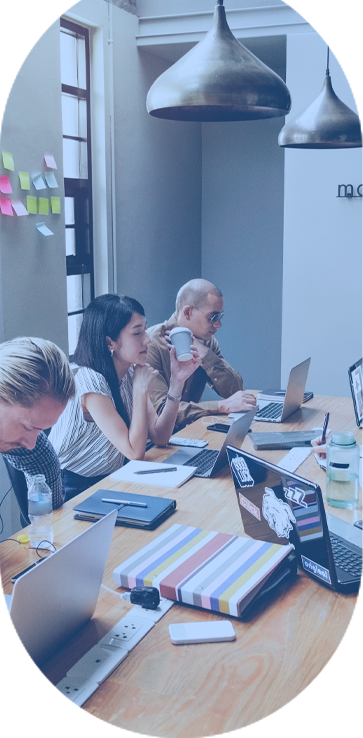
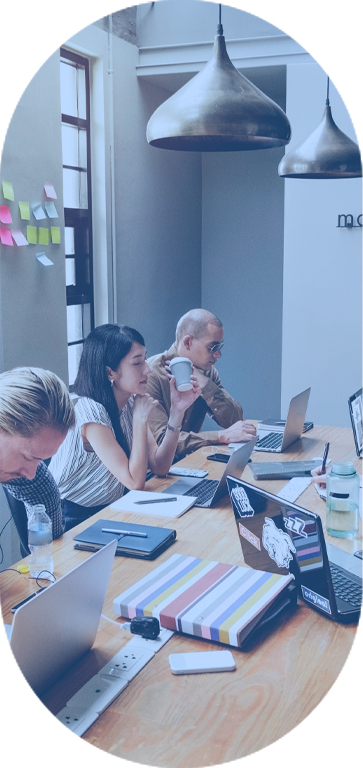
alterando design

diff --git a/index.html b/index.html
@@ -4,7 +4,7 @@
     <meta charset="UTF-8">
     <meta name="viewport" content="width=device-width, initial-scale=1.0">
     <link rel="stylesheet" href="./public/css/syle.css">
-    <link rel="stylesheet" href="./public/css/animationCircle.css">
+    <link rel="stylesheet" href="./public/css/animation.css">
     <link href="https://fonts.googleapis.com/css2?family=Roboto:wght@400;700&display=swap" rel="stylesheet">
    
     <title>Ad On</title>
@@ -19,9 +19,9 @@
 
             <nav class="menu-align">
                 <ul class="menu">
-                    <li><a>Home</a></li>
-                    <li><a>Sobre</a></li>
-                    <li><a>Contato</a></li>
+                    <li><a>HOME</a></li>
+                    <li><a>PORTIFOLIO</a></li>
+                    <li><a>CONTATO</a></li>
                 </ul>
             </nav>
         </header>
@@ -56,17 +56,22 @@
 
                 <div class="card">
                     <img src="./public/svg/Designer.svg" alt="">
-                    <h3 class="content-title-grey">Edição de <h2 class="content-title-blue"> Imagem</h2></h3>
+                    <h3 class="content-title-grey">Criação de <h2 class="content-title-blue">Artes</h2></h3>
+                    <p>Lorem ipsum dolor sit amet consectetur adipisicing elit. Voluptas nobis velit iusto itaque repudiandae deserunt exercitationem nam, odio harum blanditiis, eaque praesentium optio laudantium ducimus explicabo aspernatur alias. Nostrum, quos</p>
+
                 </div>
 
                 <div class="card">
                     <img src="./public/svg/videographer.svg" alt="">
-                    <h3 class="content-title-grey">Edição de <h2 class="content-title-blue"> Imagem</h2></h3>
+                    <h3 class="content-title-grey">Edição de <h2 class="content-title-blue">Vídeos</h2></h3>
+                    <p>Lorem ipsum dolor sit amet consectetur adipisicing elit. Voluptas nobis velit iusto itaque repudiandae deserunt exercitationem nam, odio harum blanditiis, eaque praesentium optio laudantium ducimus explicabo aspernatur alias. Nostrum, quos</p>
+
                 </div>
 
                 <div class="card">
                     <img src="./public/svg/data.svg" alt="">
-                    <h3 class="content-title-grey">Edição de <h2 class="content-title-blue"> Imagem</h2></h3>
+                    <h3 class="content-title-grey">Controle de <h2 class="content-title-blue">Marketing</h2></h3>
+                    <p>Lorem ipsum dolor sit amet consectetur adipisicing elit. Voluptas nobis velit iusto itaque repudiandae deserunt exercitationem nam, odio harum blanditiis, eaque praesentium optio laudantium ducimus explicabo aspernatur alias. Nostrum, quos</p>
                 </div>
                 
         </section>

diff --git a/public/css/syle.css b/public/css/syle.css
@@ -31,7 +31,7 @@ body, ul, li {
 header img {
   width: 06%;
   height: 06%;
-  padding: 0 8rem 0 8rem;
+  padding: 0 15rem 0 0;
 }
 
 header {
@@ -39,37 +39,20 @@ header {
   max-height: 80px;
   display: flex;
   align-items: center;
-  position: block;
+  justify-content: center;
 }
 
 .image-background
 {
   position: absolute;
-  top: 0%;
-  right: 5%;
+  top: 08%;
+  right: 6%;
   z-index: -1;
-  height: 100%;
+  height: 85%;
+  
 }
 
-*:not(.circle)
-{
-  filter: blur(0px);
 
-  animation: ease-in-out blurTransition 0.9s;
-}
-
-@keyframes blurTransition
-{
-  from
-  {
-    filter: blur(07px)
-  }
-
-  to
-  {
-    filter: blur(0px)
-  }
-}
 
 
 
@@ -157,13 +140,18 @@ header {
   flex-direction: column;
   justify-content: space-around;
   width: 100%;
-  min-height: 120vh;
+  min-height: 90vh;
 
 }
 .container .cards {
+  width: 90%;
   display: flex;
   justify-content: space-between;
   align-items: center;
+  margin: auto;
+  border-radius: 20px;
+  box-shadow: 1rem 1em 4rem rgba(0, 0, 0, .2);
+  padding: 2rem;
 }
 .container .cards .card {
   display: flex;
@@ -173,11 +161,26 @@ header {
   align-items: center;
 }
 
+.container .cards .card p
+{
+  text-align: justify;
+  text-indent: 08%;
+  line-height: 25px;
+}
+
 .container .cards .card img
 {
-  width: 70%;
-  min-height: 70%;
+  width: 250px;
+  height: 250px;
 }
+
+.content-title-blue
+{
+  color: var(--primary-color);
+  margin: 0;
+  padding: 0;
+}
+
 
 /* SVG's */
 .background-svg {

diff --git a/public/css/animation.css b/public/css/animation.css
@@ -1,9 +1,9 @@
 
-*:not(.circle)
+.image-background
 {
   filter: blur(0px);
 
-  animation: ease-in-out blurTransition 0.9s;
+  animation: ease-in-out blurTransition 0.7s;
 }
 
 @keyframes blurTransition
@@ -25,17 +25,17 @@
 
 
 .circle { 
-    width: 220px;
-    height: 220px; 
+    width: 250px;
+    height: 250px; 
     -moz-border-radius: 100%; 
     -webkit-border-radius: 100%; 
     border-radius: 100%;
     position: absolute;
     z-index: 2;
-    top: 5%;
-    right: 7.5%;
+    top: 12%;
+    right: 7.6%;
     background: #fff;
-    box-shadow: .4em 0 0 rgba(0, 0, 0, .2);
+    box-shadow: .4em 0 4em rgba(0, 0, 0, .2);
 
     animation: ease-in-out transitionCircle 0.9s;
   }
@@ -50,7 +50,7 @@
 
       to
       {
-          top: 5%;
+          top: 12%;
           background: #fff;
       }
   }
